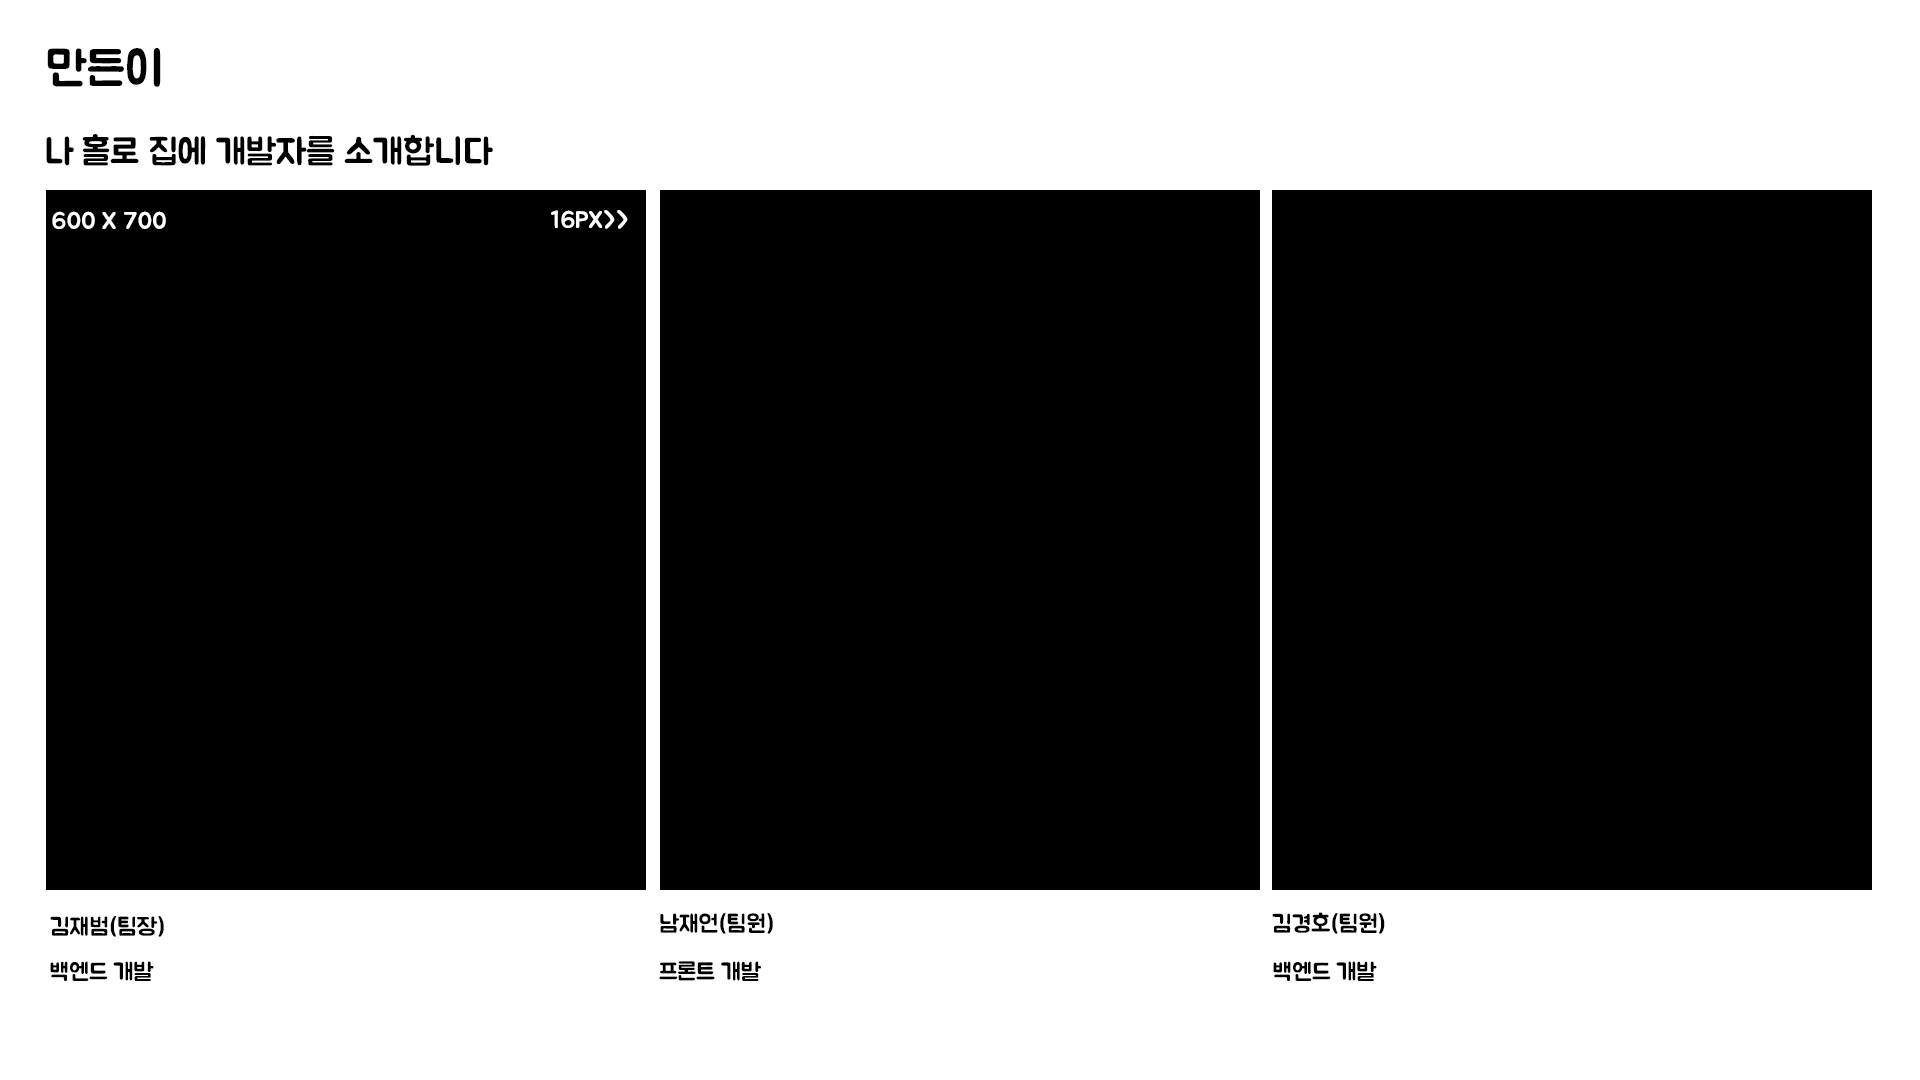
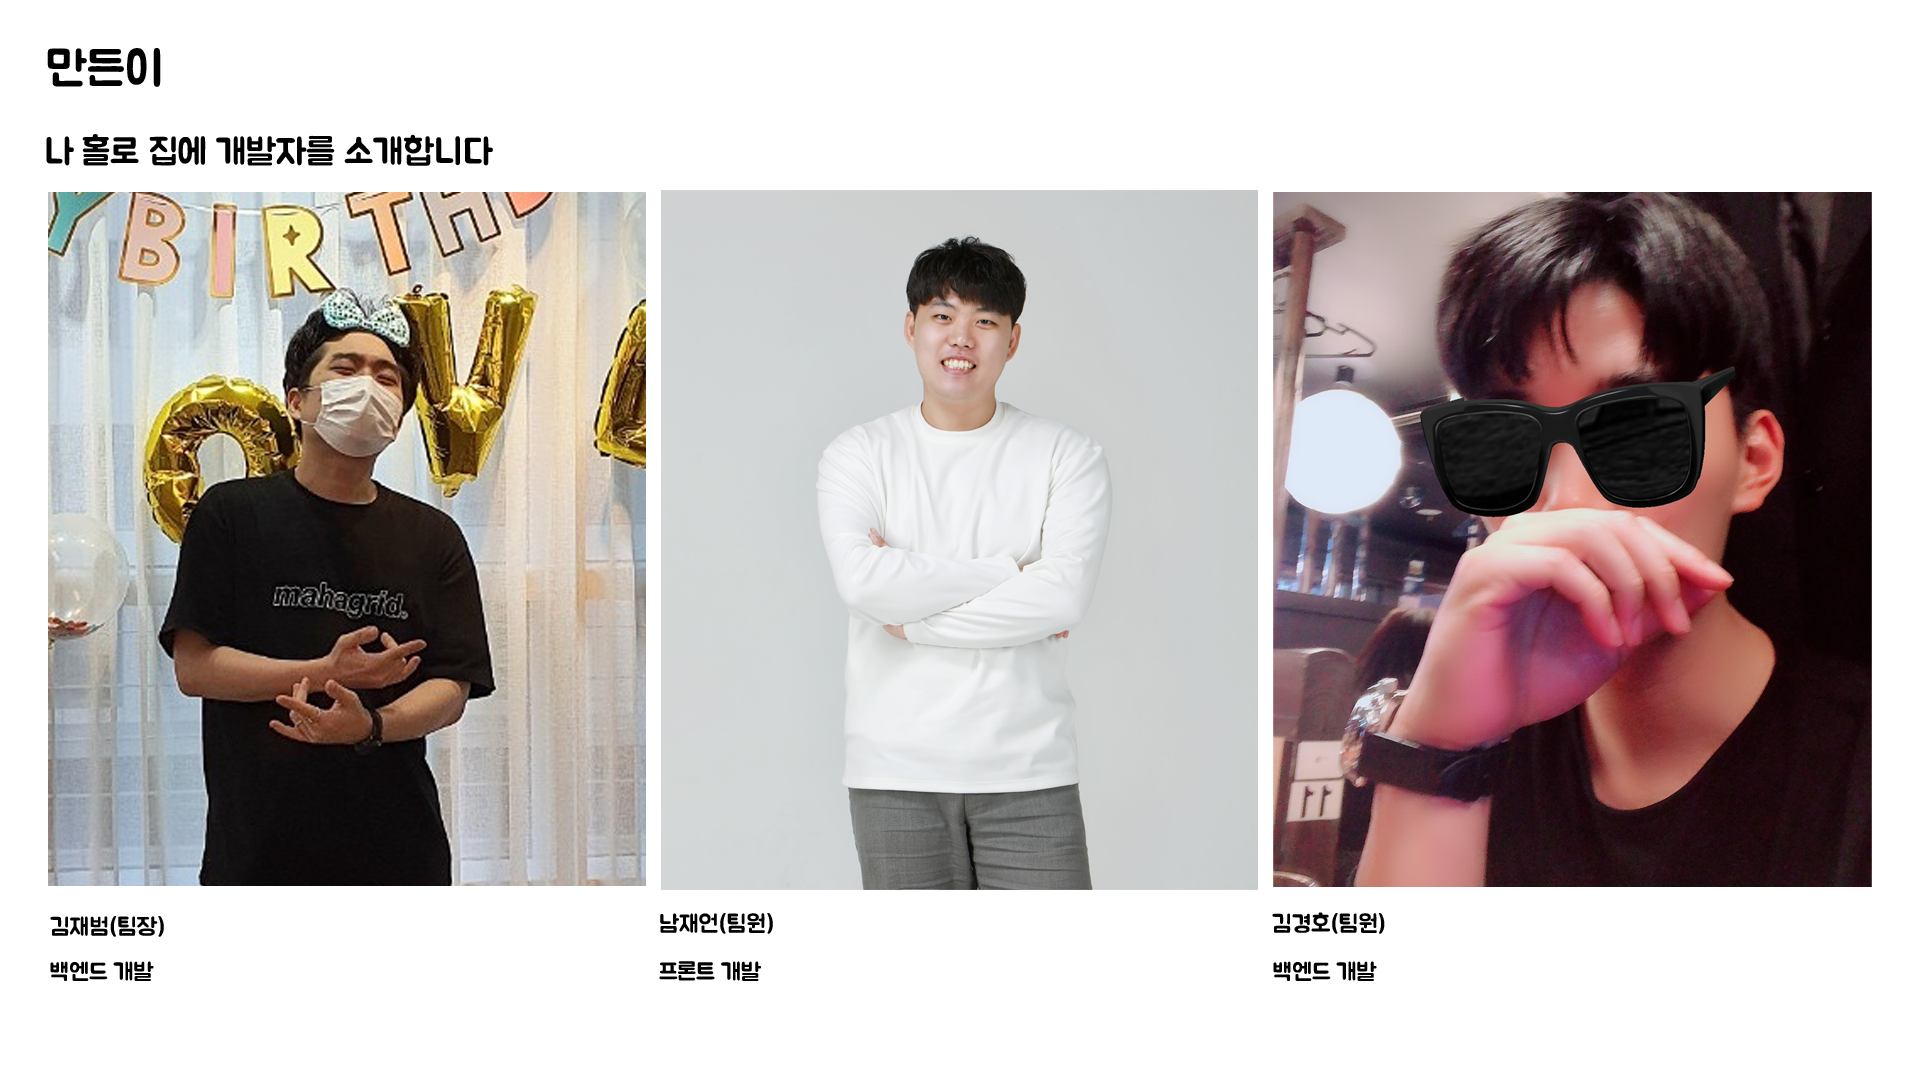
우리 사진 넣은 페이지 만들었어요 10/30 10시 47분 남재언

diff --git a/teamProject3/src/main/java/com/knk/home_alone/controller/ImageUploadController.java b/teamProject3/src/main/java/com/knk/home_alone/controller/ImageUploadController.java
@@ -1,4 +1,4 @@
-package com.knk.home_alone.controller;
+/*package com.knk.home_alone.controller;
 
 import java.io.File;
 import java.io.FileOutputStream;
@@ -266,3 +266,4 @@ public class ImageUploadController {
 	
 
 }
+*/
